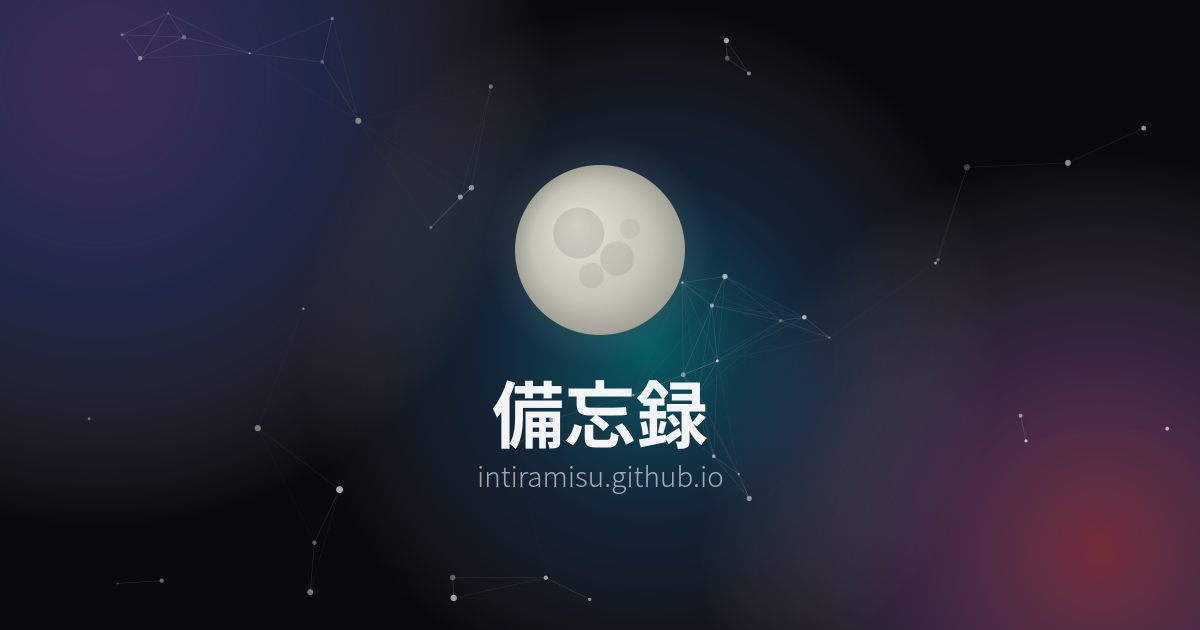
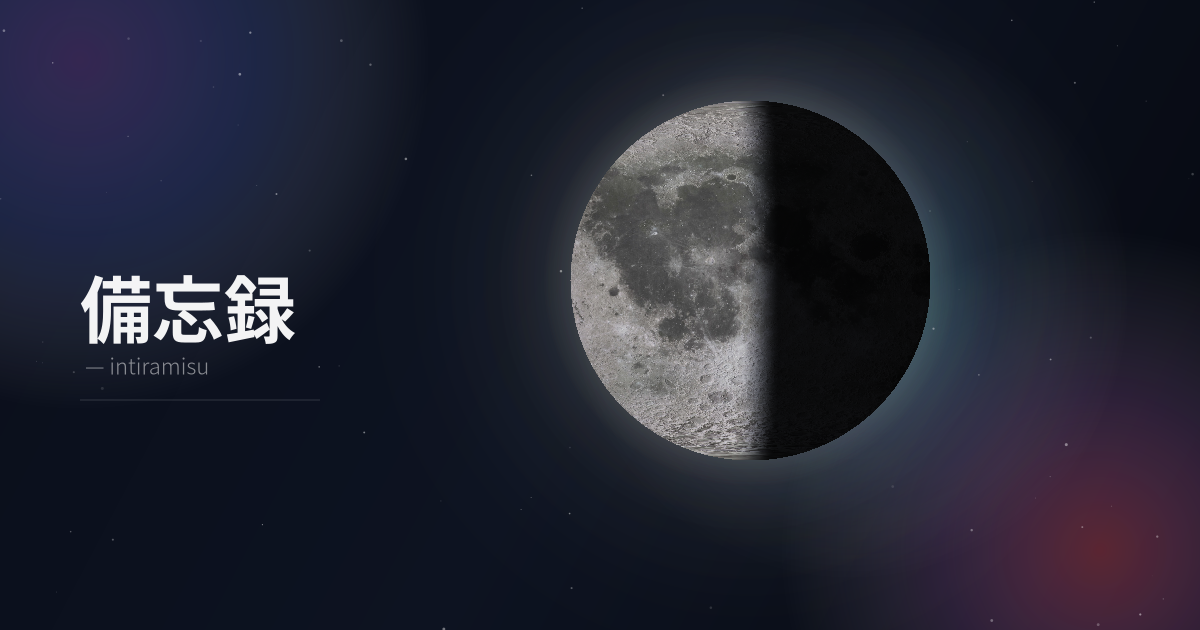
Redesign OGP image with colorful shapes and realistic moon
- Add purple, pink, and cyan glow shapes like top page
- Use realistic moon texture with current moon phase
- Reduce title font size for better balance
- Add multi-layer moon glow effects

diff --git a/scripts/generate-ogp.js b/scripts/generate-ogp.js
@@ -1,4 +1,4 @@
-const { createCanvas, registerFont } = require('canvas');
+const { createCanvas, registerFont, loadImage } = require('canvas');
 const fs = require('fs');
 const path = require('path');
 
@@ -8,155 +8,231 @@ registerFont(path.join(__dirname, 'fonts', 'NotoSansJP-Light.ttf'), { family: 'N
 
 const width = 1200;
 const height = 630;
-const canvas = createCanvas(width, height);
-const ctx = canvas.getContext('2d');
 
-// ===== 背景 =====
-ctx.fillStyle = '#08090f';
-ctx.fillRect(0, 0, width, height);
+// 月齢計算
+const SYNODIC_MONTH = 29.530588853;
+const FULL_MOON_2026 = new Date(Date.UTC(2026, 0, 3, 10, 4, 0));
+const FULL_MOON_AGE = 14.77;
 
-// ===== グラデーションシェイプ（ぼかし風） =====
-function drawGlowShape(x, y, radius, colors) {
-  const gradient = ctx.createRadialGradient(x, y, 0, x, y, radius);
-  gradient.addColorStop(0, colors[0]);
-  gradient.addColorStop(0.5, colors[1]);
-  gradient.addColorStop(1, 'transparent');
-  ctx.fillStyle = gradient;
-  ctx.beginPath();
-  ctx.arc(x, y, radius, 0, Math.PI * 2);
-  ctx.fill();
+function getMoonAge(date) {
+  const diffDays = (date.getTime() - FULL_MOON_2026.getTime()) / 864e5;
+  let age = (FULL_MOON_AGE + diffDays) % SYNODIC_MONTH;
+  return age < 0 ? age + SYNODIC_MONTH : age;
 }
 
-// 紫のシェイプ（左上）
-drawGlowShape(100, 80, 450, [
-  'rgba(118, 75, 162, 0.5)',
-  'rgba(102, 126, 234, 0.25)'
-]);
+async function generateOGP() {
+  const canvas = createCanvas(width, height);
+  const ctx = canvas.getContext('2d');
 
-// ピンクのシェイプ（右下）
-drawGlowShape(1100, 550, 400, [
-  'rgba(245, 87, 108, 0.45)',
-  'rgba(240, 147, 251, 0.2)'
-]);
+  // ===== 背景グラデーション（深い藍〜墨色） =====
+  const bgGradient = ctx.createLinearGradient(0, 0, width, height);
+  bgGradient.addColorStop(0, '#0a0e1a');
+  bgGradient.addColorStop(0.5, '#0d1321');
+  bgGradient.addColorStop(1, '#06080f');
+  ctx.fillStyle = bgGradient;
+  ctx.fillRect(0, 0, width, height);
 
-// シアンのシェイプ（中央）
-drawGlowShape(650, 350, 350, [
-  'rgba(0, 242, 254, 0.35)',
-  'rgba(79, 172, 254, 0.15)'
-]);
-
-// ===== パーティクルと線 =====
-const particles = [];
-const particleCount = 50;
-
-// パーティクル生成
-for (let i = 0; i < particleCount; i++) {
-  particles.push({
-    x: Math.random() * width,
-    y: Math.random() * height,
-    radius: Math.random() * 2.5 + 1,
-    opacity: Math.random() * 0.5 + 0.2
-  });
-}
-
-// 線を描画
-ctx.lineWidth = 0.5;
-const connectionDistance = 150;
-
-for (let i = 0; i < particles.length; i++) {
-  for (let j = i + 1; j < particles.length; j++) {
-    const dx = particles[i].x - particles[j].x;
-    const dy = particles[i].y - particles[j].y;
-    const distance = Math.sqrt(dx * dx + dy * dy);
-
-    if (distance < connectionDistance) {
-      const opacity = (1 - distance / connectionDistance) * 0.25;
-      ctx.beginPath();
-      ctx.moveTo(particles[i].x, particles[i].y);
-      ctx.lineTo(particles[j].x, particles[j].y);
-      ctx.strokeStyle = `rgba(255, 255, 255, ${opacity})`;
-      ctx.stroke();
-    }
+  // ===== カラフルなグロウシェイプ（トップページ風） =====
+  function drawGlowShape(x, y, radius, colors) {
+    const gradient = ctx.createRadialGradient(x, y, 0, x, y, radius);
+    gradient.addColorStop(0, colors[0]);
+    gradient.addColorStop(0.5, colors[1]);
+    gradient.addColorStop(1, 'transparent');
+    ctx.fillStyle = gradient;
+    ctx.beginPath();
+    ctx.arc(x, y, radius, 0, Math.PI * 2);
+    ctx.fill();
   }
+
+  // 紫のシェイプ（左上）
+  drawGlowShape(80, 60, 350, [
+    'rgba(118, 75, 162, 0.4)',
+    'rgba(102, 126, 234, 0.2)'
+  ]);
+
+  // ピンクのシェイプ（右下）
+  drawGlowShape(1100, 550, 320, [
+    'rgba(245, 87, 108, 0.35)',
+    'rgba(240, 147, 251, 0.15)'
+  ]);
+
+  // シアンのシェイプ（中央右寄り）
+  drawGlowShape(850, 300, 280, [
+    'rgba(0, 242, 254, 0.25)',
+    'rgba(79, 172, 254, 0.1)'
+  ]);
+
+  // ===== 星々（控えめに） =====
+  const starCount = 80;
+  for (let i = 0; i < starCount; i++) {
+    const x = Math.random() * width;
+    const y = Math.random() * height;
+    const radius = Math.random() * 1.2 + 0.3;
+    const opacity = Math.random() * 0.4 + 0.1;
+
+    ctx.beginPath();
+    ctx.arc(x, y, radius, 0, Math.PI * 2);
+    ctx.fillStyle = `rgba(255, 255, 255, ${opacity})`;
+    ctx.fill();
+  }
+
+  // ===== 月のテクスチャを読み込み =====
+  const moonTexturePath = path.join(__dirname, '..', 'static', 'images', 'moon-texture.jpg');
+  let moonTexture = null;
+
+  try {
+    moonTexture = await loadImage(moonTexturePath);
+  } catch (e) {
+    console.log('Moon texture not found, using fallback');
+  }
+
+  // ===== 月を描画 =====
+  const moonX = 750;
+  const moonY = 280;
+  const moonRadius = 180;
+  const moonAge = getMoonAge(new Date());
+  const phase = (moonAge / SYNODIC_MONTH) % 1;
+
+  // 月光のグロー（多層）
+  const glowLayers = [
+    { radius: moonRadius * 2.2, opacity: 0.03 },
+    { radius: moonRadius * 1.8, opacity: 0.05 },
+    { radius: moonRadius * 1.4, opacity: 0.08 },
+    { radius: moonRadius * 1.15, opacity: 0.12 },
+  ];
+
+  glowLayers.forEach(layer => {
+    const glowGrad = ctx.createRadialGradient(
+      moonX, moonY, moonRadius * 0.9,
+      moonX, moonY, layer.radius
+    );
+    glowGrad.addColorStop(0, `rgba(255, 252, 235, ${layer.opacity})`);
+    glowGrad.addColorStop(0.5, `rgba(255, 250, 220, ${layer.opacity * 0.4})`);
+    glowGrad.addColorStop(1, 'rgba(255, 248, 210, 0)');
+    ctx.fillStyle = glowGrad;
+    ctx.beginPath();
+    ctx.arc(moonX, moonY, layer.radius, 0, Math.PI * 2);
+    ctx.fill();
+  });
+
+  // 月本体をテクスチャで描画
+  if (moonTexture) {
+    // テクスチャから月を描画
+    const tempCanvas = createCanvas(moonRadius * 2, moonRadius * 2);
+    const tempCtx = tempCanvas.getContext('2d');
+
+    const lightAngle = phase * 2 * Math.PI;
+    const lightX = Math.sin(lightAngle);
+    const lightZ = -Math.cos(lightAngle);
+
+    const texWidth = moonTexture.width;
+    const texHeight = moonTexture.height;
+
+    // テクスチャをオフスクリーンキャンバスに描画
+    const texCanvas = createCanvas(texWidth, texHeight);
+    const texCtx = texCanvas.getContext('2d');
+    texCtx.drawImage(moonTexture, 0, 0);
+    const texData = texCtx.getImageData(0, 0, texWidth, texHeight);
+
+    const imageData = tempCtx.createImageData(moonRadius * 2, moonRadius * 2);
+    const data = imageData.data;
+    const size = moonRadius * 2;
+    const center = moonRadius;
+
+    for (let y = 0; y < size; y++) {
+      for (let x = 0; x < size; x++) {
+        const dx = x - center;
+        const dy = y - center;
+        const dist = Math.sqrt(dx * dx + dy * dy);
+
+        if (dist <= moonRadius) {
+          const idx = (y * size + x) * 4;
+          const nx = dx / moonRadius;
+          const ny = dy / moonRadius;
+          const nz = Math.sqrt(Math.max(0, 1 - nx * nx - ny * ny));
+
+          // テクスチャサンプリング
+          const u = (nx + 1) / 2;
+          const v = (ny + 1) / 2;
+          const texX = Math.floor(u * texWidth * 0.5 + texWidth * 0.25) % texWidth;
+          const texY = Math.floor(v * texHeight) % texHeight;
+          const texIdx = (texY * texWidth + texX) * 4;
+
+          const texR = texData.data[texIdx];
+          const texG = texData.data[texIdx + 1];
+          const texB = texData.data[texIdx + 2];
+
+          // ライティング
+          const dotProduct = nx * lightX + nz * lightZ;
+          const terminator = 0.12;
+          let lightFactor = (dotProduct + terminator) / (2 * terminator);
+          lightFactor = Math.max(0, Math.min(1, lightFactor));
+          lightFactor = lightFactor * lightFactor * (3 - 2 * lightFactor);
+
+          const ambientLight = 0.08;
+          const limbDarkening = 0.85 + 0.15 * nz;
+          const brightness = (ambientLight + (1 - ambientLight) * lightFactor) * limbDarkening;
+
+          const shadowTint = 1 - lightFactor;
+          data[idx] = Math.floor(Math.min(255, texR * brightness * (1 - shadowTint * 0.05)));
+          data[idx + 1] = Math.floor(Math.min(255, texG * brightness));
+          data[idx + 2] = Math.floor(Math.min(255, texB * brightness * (1 + shadowTint * 0.1)));
+          data[idx + 3] = 255;
+        }
+      }
+    }
+
+    tempCtx.putImageData(imageData, 0, 0);
+    ctx.drawImage(tempCanvas, moonX - moonRadius, moonY - moonRadius);
+  } else {
+    // フォールバック: シンプルな月
+    const moonGradient = ctx.createRadialGradient(
+      moonX - moonRadius * 0.3, moonY - moonRadius * 0.3, 0,
+      moonX, moonY, moonRadius
+    );
+    moonGradient.addColorStop(0, '#e8e6d9');
+    moonGradient.addColorStop(0.7, '#c5c3b8');
+    moonGradient.addColorStop(1, '#a0a095');
+    ctx.beginPath();
+    ctx.arc(moonX, moonY, moonRadius, 0, Math.PI * 2);
+    ctx.fillStyle = moonGradient;
+    ctx.fill();
+  }
+
+  // ===== テキスト =====
+  // メインタイトル「備忘録」- 左側に大きく
+  ctx.textAlign = 'left';
+  ctx.textBaseline = 'middle';
+
+  // タイトル
+  ctx.font = 'bold 72px "Noto Sans JP"';
+  ctx.fillStyle = 'rgba(255, 255, 255, 0.95)';
+  ctx.fillText('備忘録', 80, height / 2 - 10);
+
+  // サブテキスト
+  ctx.font = '300 22px "Noto Sans JP"';
+  ctx.fillStyle = 'rgba(255, 255, 255, 0.5)';
+  ctx.fillText('— intiramisu', 85, height / 2 + 50);
+
+  // ===== 装飾ライン =====
+  ctx.strokeStyle = 'rgba(255, 255, 255, 0.15)';
+  ctx.lineWidth = 1;
+  ctx.beginPath();
+  ctx.moveTo(80, height / 2 + 85);
+  ctx.lineTo(320, height / 2 + 85);
+  ctx.stroke();
+
+  // ===== 保存 =====
+  const outputDir = path.join(__dirname, '..', 'static');
+  if (!fs.existsSync(outputDir)) {
+    fs.mkdirSync(outputDir, { recursive: true });
+  }
+
+  const outputPath = path.join(outputDir, 'og-image.png');
+  fs.writeFileSync(outputPath, canvas.toBuffer('image/png'));
+
+  console.log(`OGP image generated: ${outputPath}`);
+  console.log(`Moon age: ${moonAge.toFixed(1)} days`);
 }
 
-// パーティクルを描画
-particles.forEach(p => {
-  ctx.beginPath();
-  ctx.arc(p.x, p.y, p.radius, 0, Math.PI * 2);
-  ctx.fillStyle = `rgba(255, 255, 255, ${p.opacity})`;
-  ctx.fill();
-});
-
-// ===== 月を描画 =====
-const moonX = 600;
-const moonY = 250;
-const moonRadius = 85;
-
-// 月のグロー
-const moonGlow = ctx.createRadialGradient(moonX, moonY, moonRadius * 0.8, moonX, moonY, moonRadius + 30);
-moonGlow.addColorStop(0, 'rgba(255, 255, 230, 0.1)');
-moonGlow.addColorStop(1, 'transparent');
-ctx.fillStyle = moonGlow;
-ctx.beginPath();
-ctx.arc(moonX, moonY, moonRadius + 30, 0, Math.PI * 2);
-ctx.fill();
-
-// 月本体（クレーター表現付き）
-const moonGradient = ctx.createRadialGradient(
-  moonX - moonRadius * 0.3, moonY - moonRadius * 0.3, 0,
-  moonX, moonY, moonRadius
-);
-moonGradient.addColorStop(0, '#e8e6d9');
-moonGradient.addColorStop(0.7, '#c5c3b8');
-moonGradient.addColorStop(1, '#a0a095');
-
-ctx.beginPath();
-ctx.arc(moonX, moonY, moonRadius, 0, Math.PI * 2);
-ctx.fillStyle = moonGradient;
-ctx.fill();
-
-// クレーター（暗い斑点）
-const craters = [
-  { x: -0.25, y: -0.2, r: 0.3, opacity: 0.15 },
-  { x: 0.2, y: 0.1, r: 0.2, opacity: 0.12 },
-  { x: -0.1, y: 0.3, r: 0.15, opacity: 0.1 },
-  { x: 0.35, y: -0.25, r: 0.12, opacity: 0.08 },
-];
-
-craters.forEach(c => {
-  ctx.beginPath();
-  ctx.arc(
-    moonX + c.x * moonRadius,
-    moonY + c.y * moonRadius,
-    c.r * moonRadius,
-    0, Math.PI * 2
-  );
-  ctx.fillStyle = `rgba(80, 80, 75, ${c.opacity})`;
-  ctx.fill();
-});
-
-// ===== タイトルテキスト =====
-ctx.textAlign = 'center';
-ctx.textBaseline = 'middle';
-
-// サイトタイトル
-ctx.font = 'bold 72px "Noto Sans JP"';
-ctx.fillStyle = 'rgba(255, 255, 255, 0.95)';
-ctx.fillText('備忘録', width / 2, height / 2 + 95);
-
-// サブテキスト
-ctx.font = '300 28px "Noto Sans JP"';
-ctx.fillStyle = 'rgba(255, 255, 255, 0.6)';
-ctx.fillText('intiramisu.github.io', width / 2, height / 2 + 160);
-
-// ===== 保存 =====
-const outputDir = path.join(__dirname, '..', 'static');
-if (!fs.existsSync(outputDir)) {
-  fs.mkdirSync(outputDir, { recursive: true });
-}
-
-const outputPath = path.join(outputDir, 'og-image.png');
-fs.writeFileSync(outputPath, canvas.toBuffer('image/png'));
-
-console.log(`OGP image generated: ${outputPath}`);
+generateOGP().catch(console.error);
